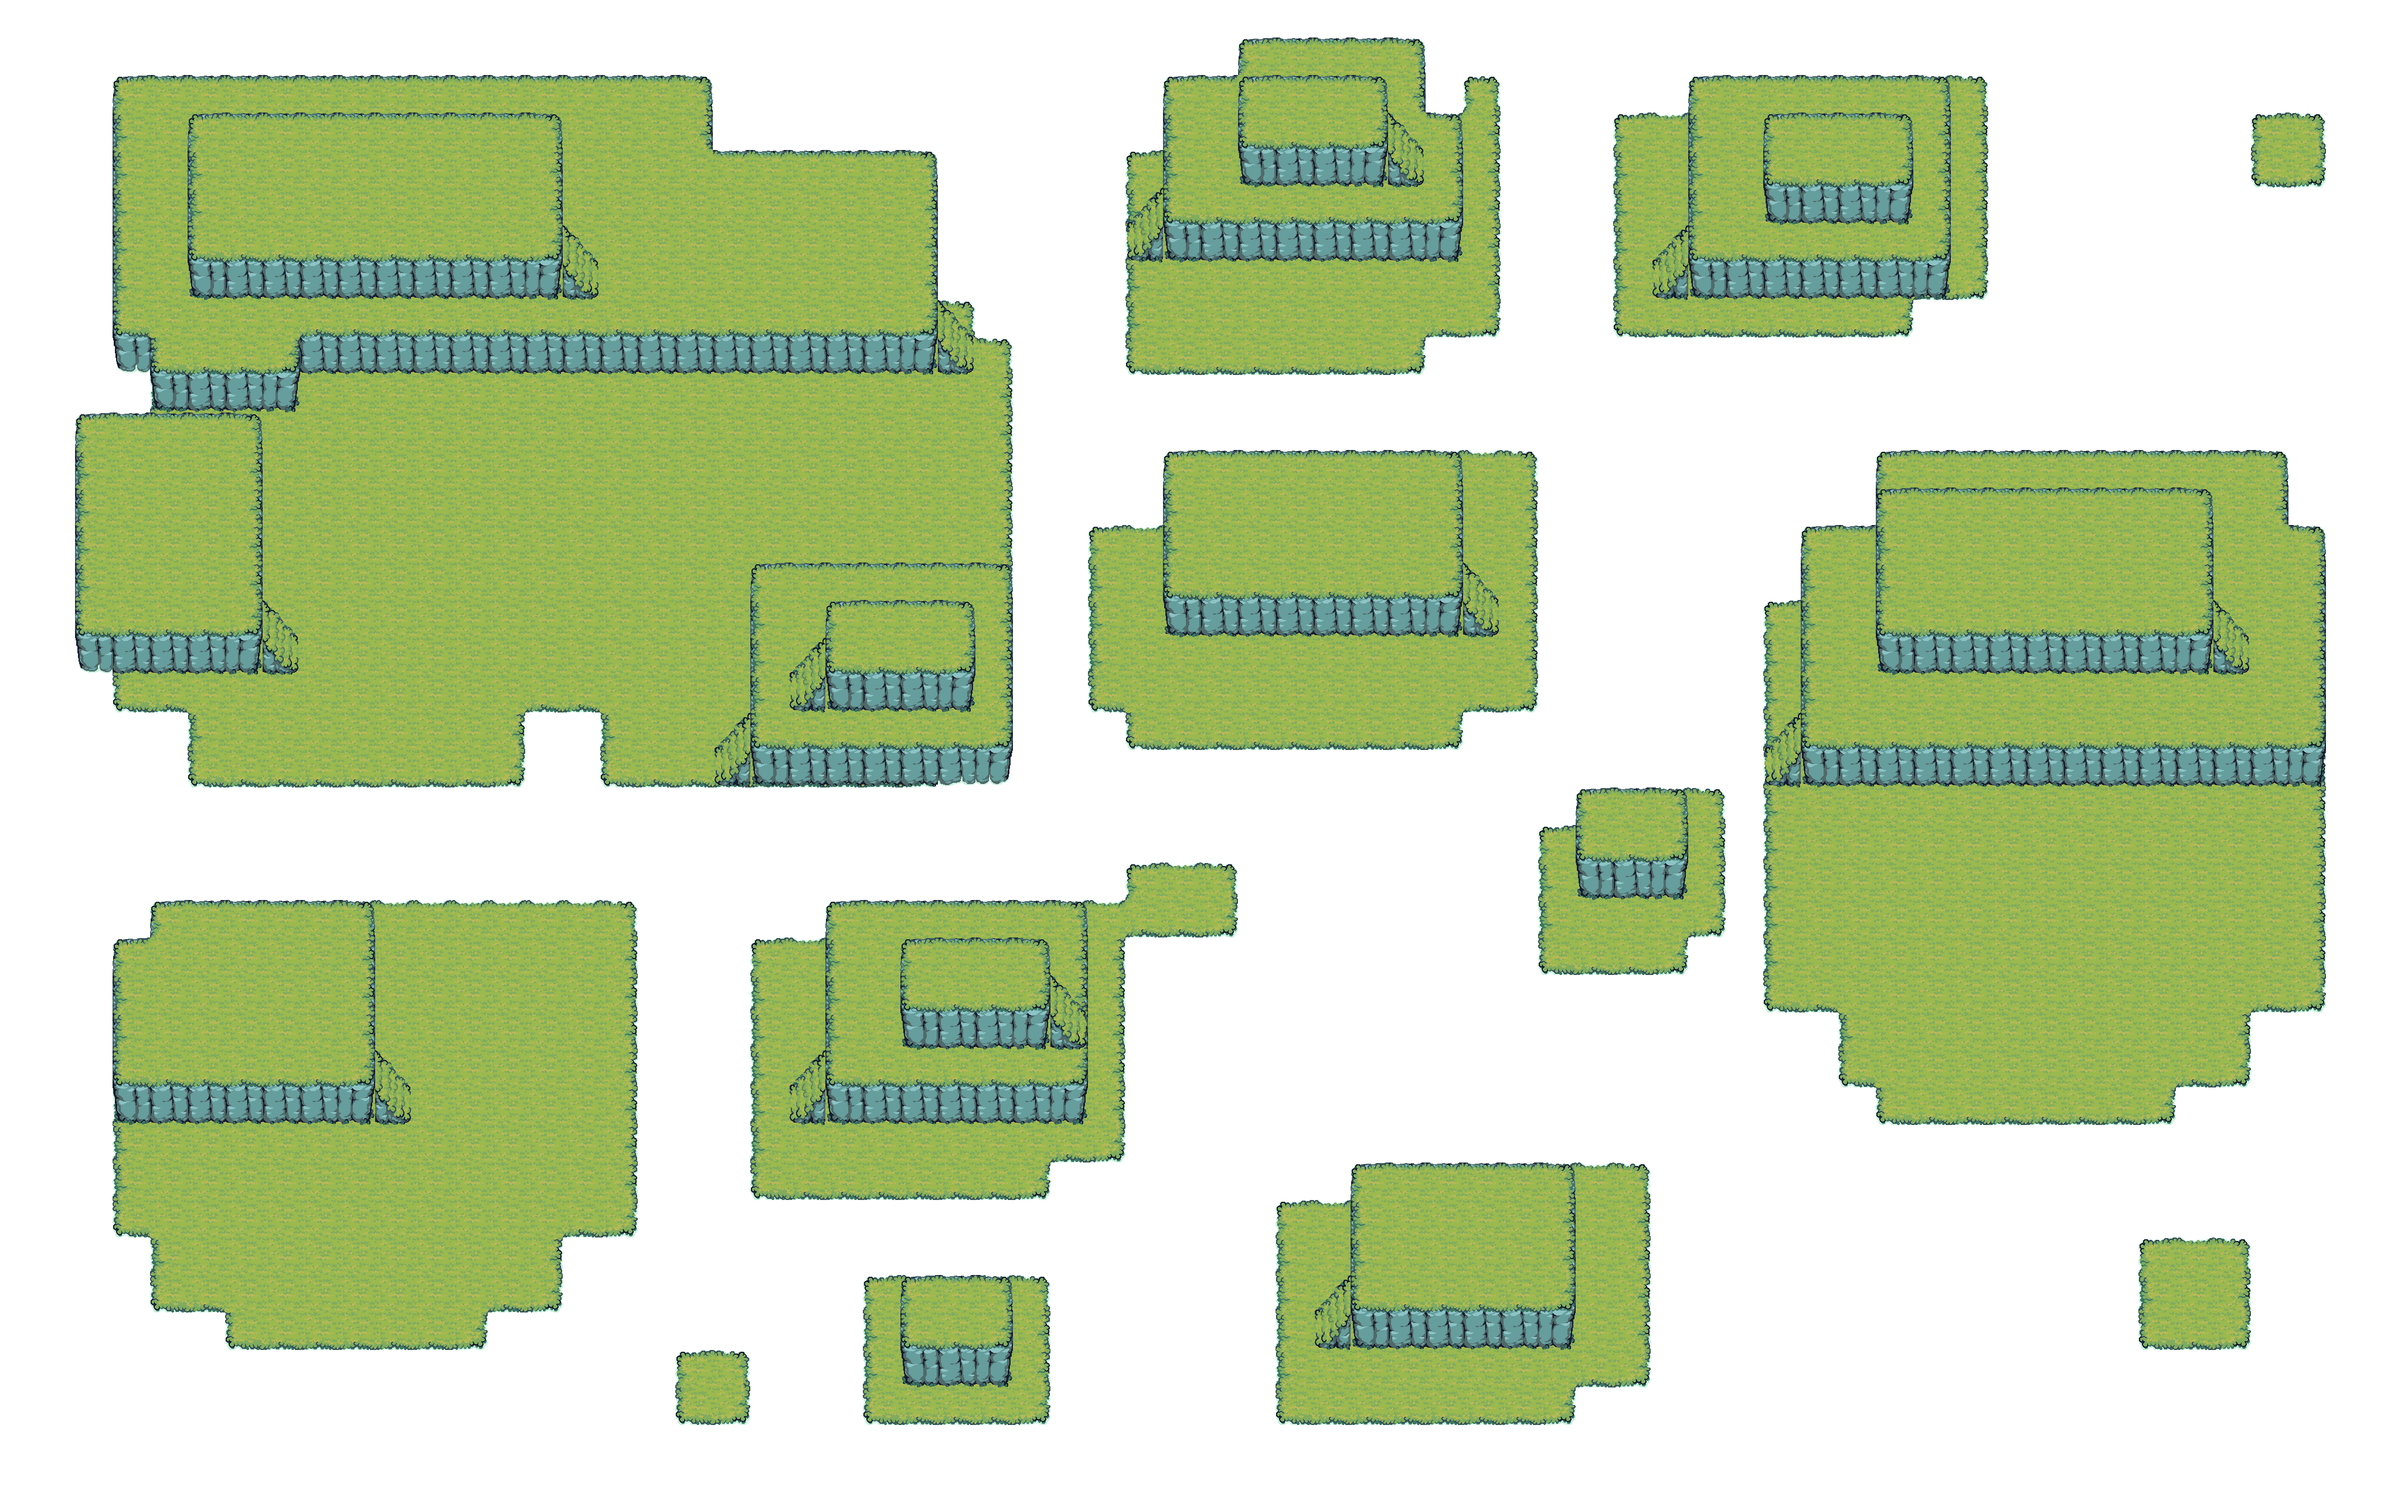
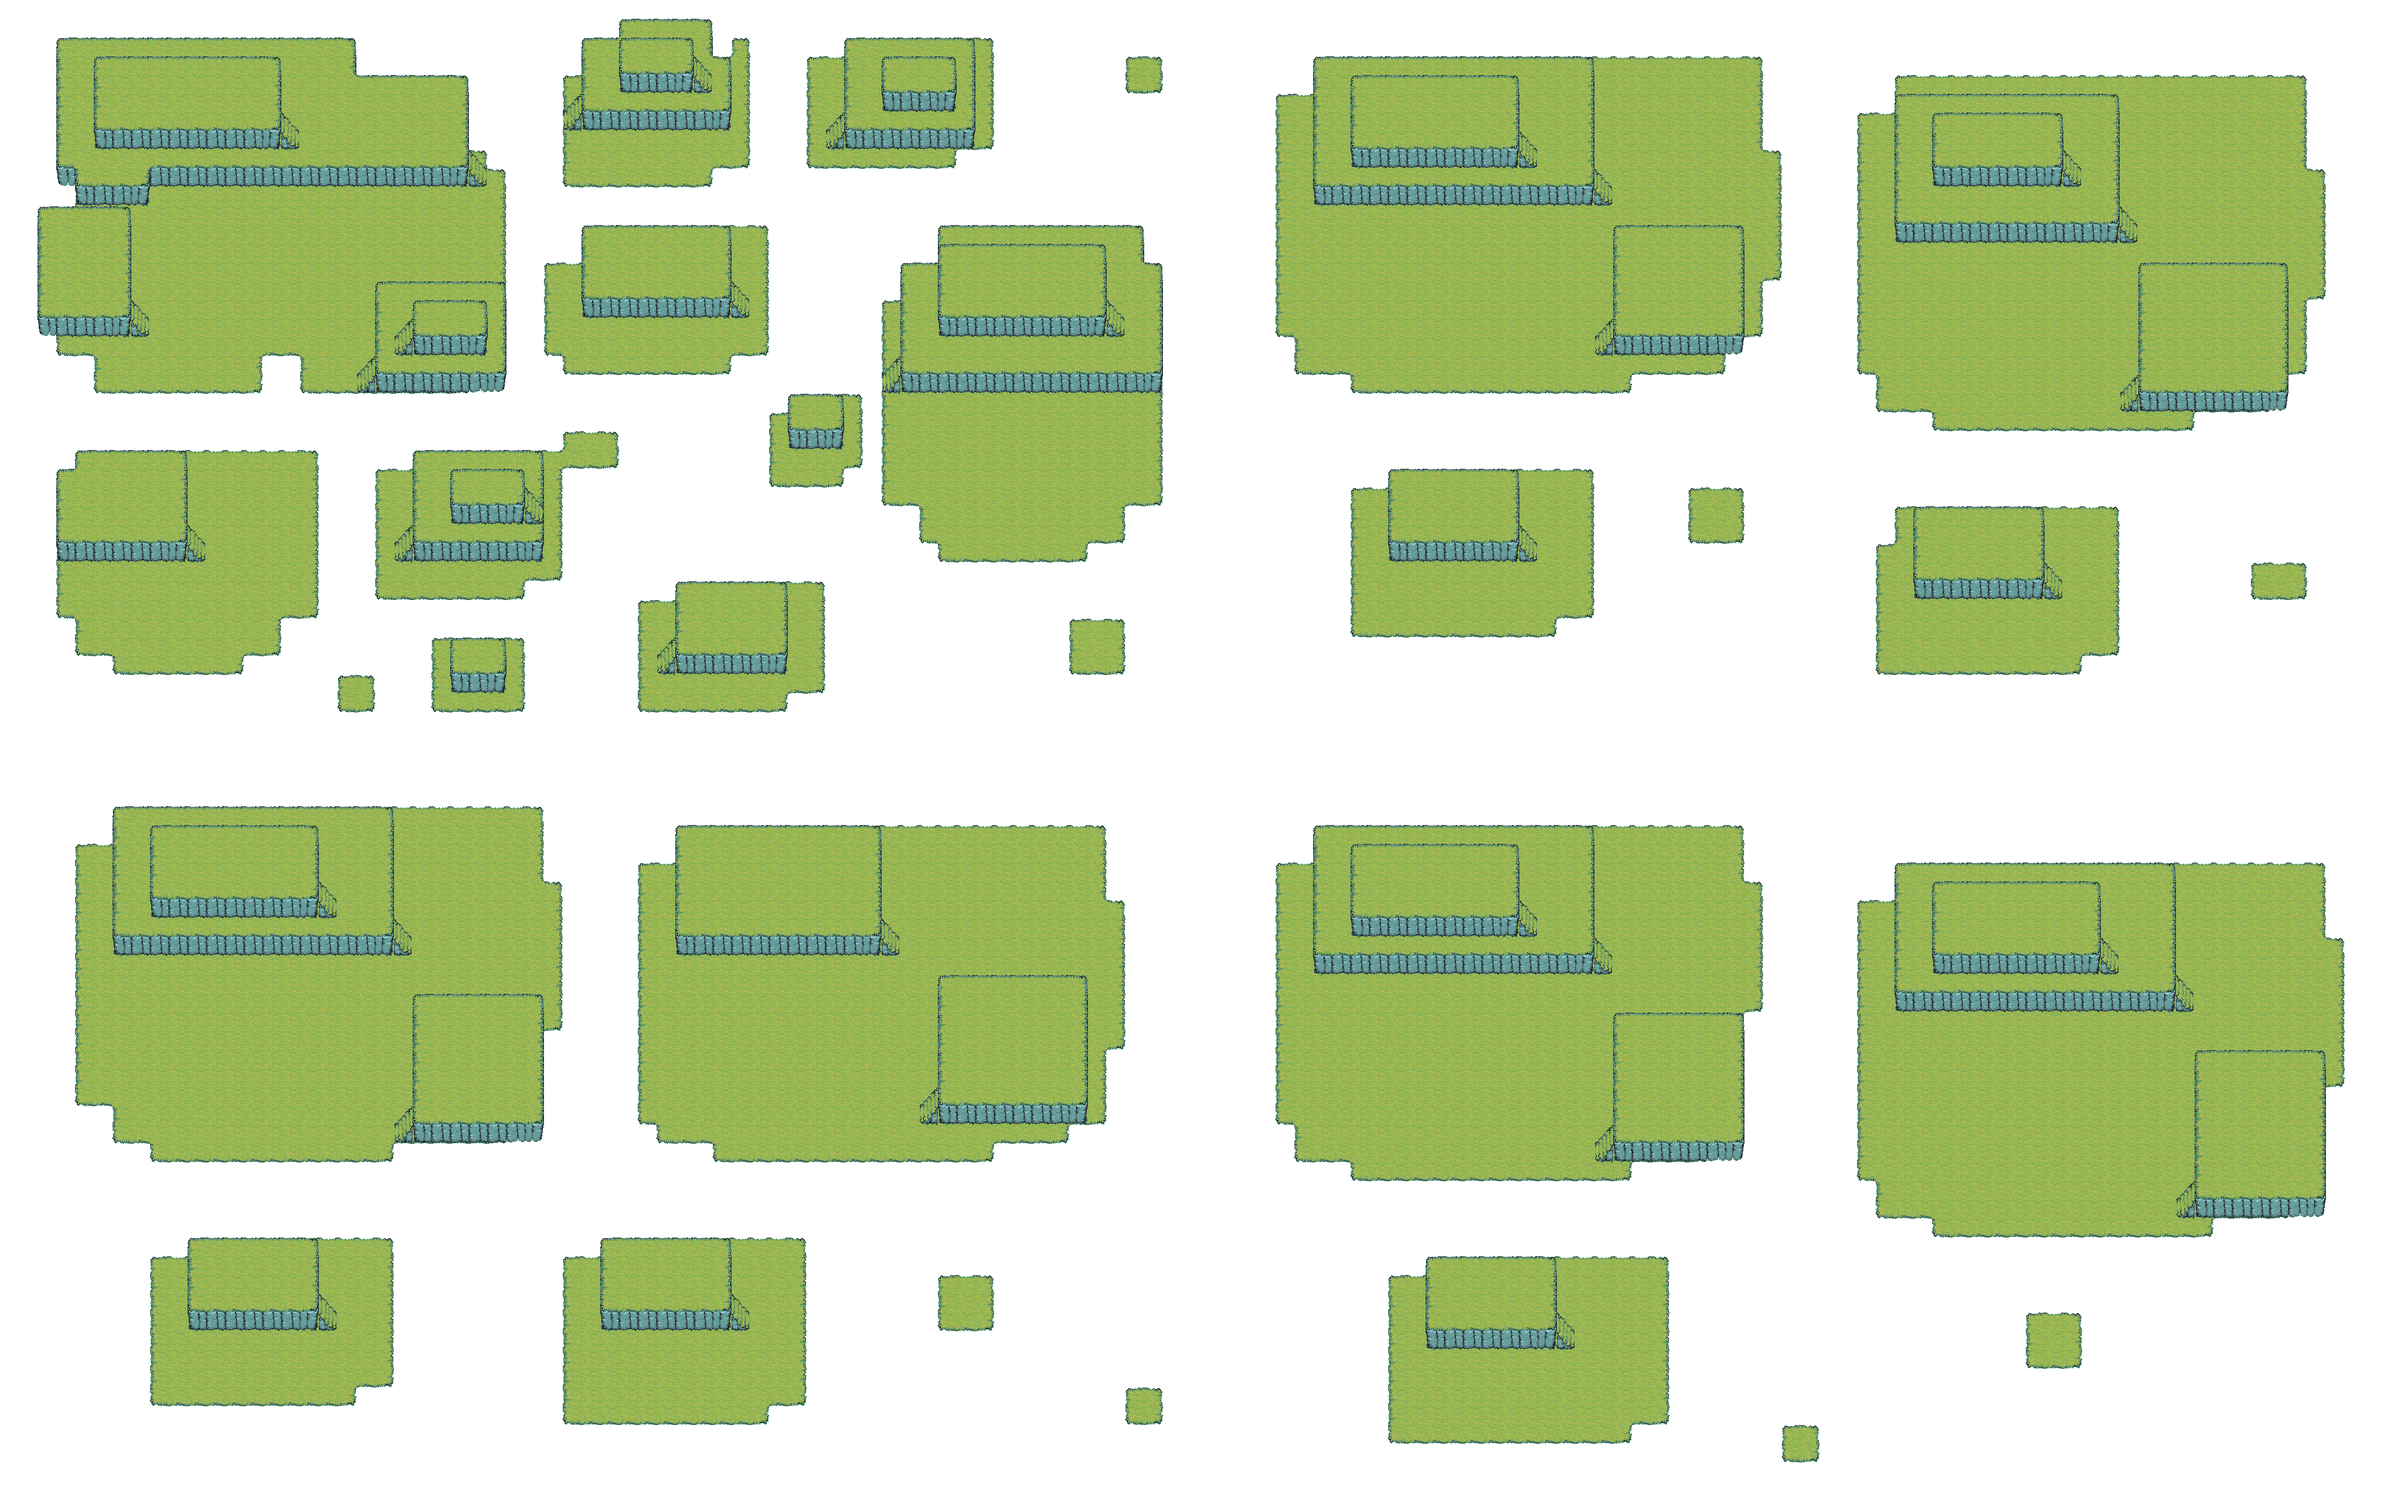
Royaume : carte deux fois plus grande, 11 nouvelles îles

diff --git a/web/src/lib/world.ts b/web/src/lib/world.ts
@@ -1,5 +1,5 @@
 // Moteur de la carte du royaume « English Sword » (canvas 2D, pixel art Tiny Swords).
-// - carte générée depuis Tiled (src/data/world.json + public/ts/land.png)
+// - carte générée depuis Tiled (src/data/world.json + public/ts/land-*.png, land.png = vue d’ensemble)
 // - écume, arbres, soldats, feux… animés image par image
 // - objets achetés au marché : déplaçables à la souris / au doigt, les personnages se promènent
 // - îles verrouillées recouvertes de brouillard tant que les quêtes ne sont pas faites
@@ -218,7 +218,11 @@ export function createWorld(
     }
     return im;
   };
-  const land = img('land.png');
+  // terre découpée en morceaux de 2048 px (chargés seulement quand on les voit)
+  // + une version demi-résolution pour la vue d'ensemble
+  const CHUNK = 2048;
+  const landLow = img('land.png');
+  const landChunk = (i: number, j: number) => img(`land-${i}-${j}.png`);
   const foam = img('sprites/foam.png');
 
   let unlocked = opts.unlocked;
@@ -637,6 +641,20 @@ export function createWorld(
     return { x0: e.x - w / 2, x1: e.x + w / 2, y0: e.y - h, y1: e.y + 8 };
   }
 
+  function forChunks(x0: number, y0: number, x1: number, y1: number, fn: (im: HTMLImageElement, ox: number, oy: number) => void) {
+    const i0 = Math.max(0, Math.floor(x0 / CHUNK));
+    const j0 = Math.max(0, Math.floor(y0 / CHUNK));
+    const i1 = Math.min(Math.ceil(WORLD_W / CHUNK) - 1, Math.floor(x1 / CHUNK));
+    const j1 = Math.min(Math.ceil(WORLD_H / CHUNK) - 1, Math.floor(y1 / CHUNK));
+    for (let j = j0; j <= j1; j++) for (let i = i0; i <= i1; i++) fn(landChunk(i, j), i * CHUNK, j * CHUNK);
+  }
+  function chunkReady(x0: number, y0: number, x1: number, y1: number) {
+    let ok = true;
+    forChunks(x0, y0, x1, y1, (im) => {
+      if (!im.complete || !im.naturalWidth) ok = false;
+    });
+    return ok;
+  }
   function draw() {
     const vx0 = cam.x - W / 2 / cam.z;
     const vy0 = cam.y - H / 2 / cam.z;
@@ -659,12 +677,24 @@ export function createWorld(
       }
     }
     // terre, falaises, plateaux
-    if (land.complete && land.naturalWidth) {
-      const sx = Math.max(0, Math.floor(vx0));
-      const sy = Math.max(0, Math.floor(vy0));
-      const sw = Math.min(WORLD_W, Math.ceil(vx1)) - sx;
-      const sh = Math.min(WORLD_H, Math.ceil(vy1)) - sy;
-      if (sw > 0 && sh > 0) ctx.drawImage(land, sx, sy, sw, sh, sx, sy, sw, sh);
+    if (cam.z < 0.5 || !chunkReady(vx0, vy0, vx1, vy1)) {
+      if (landLow.complete && landLow.naturalWidth) {
+        const sx = Math.max(0, Math.floor(vx0));
+        const sy = Math.max(0, Math.floor(vy0));
+        const sw = Math.min(WORLD_W, Math.ceil(vx1)) - sx;
+        const sh = Math.min(WORLD_H, Math.ceil(vy1)) - sy;
+        if (sw > 0 && sh > 0) ctx.drawImage(landLow, sx / 2, sy / 2, sw / 2, sh / 2, sx, sy, sw, sh);
+      }
+    }
+    if (cam.z >= 0.5) {
+      forChunks(vx0, vy0, vx1, vy1, (im, ox, oy) => {
+        if (!im.complete || !im.naturalWidth) return;
+        const sx = Math.max(ox, Math.floor(vx0));
+        const sy = Math.max(oy, Math.floor(vy0));
+        const ex = Math.min(ox + im.naturalWidth, Math.ceil(vx1));
+        const ey = Math.min(oy + im.naturalHeight, Math.ceil(vy1));
+        if (ex > sx && ey > sy) ctx.drawImage(im, sx - ox, sy - oy, ex - sx, ey - sy, sx, sy, ex - sx, ey - sy);
+      });
     }
     // sélection
     const sel = selected ? findByKey(selected) : null;
